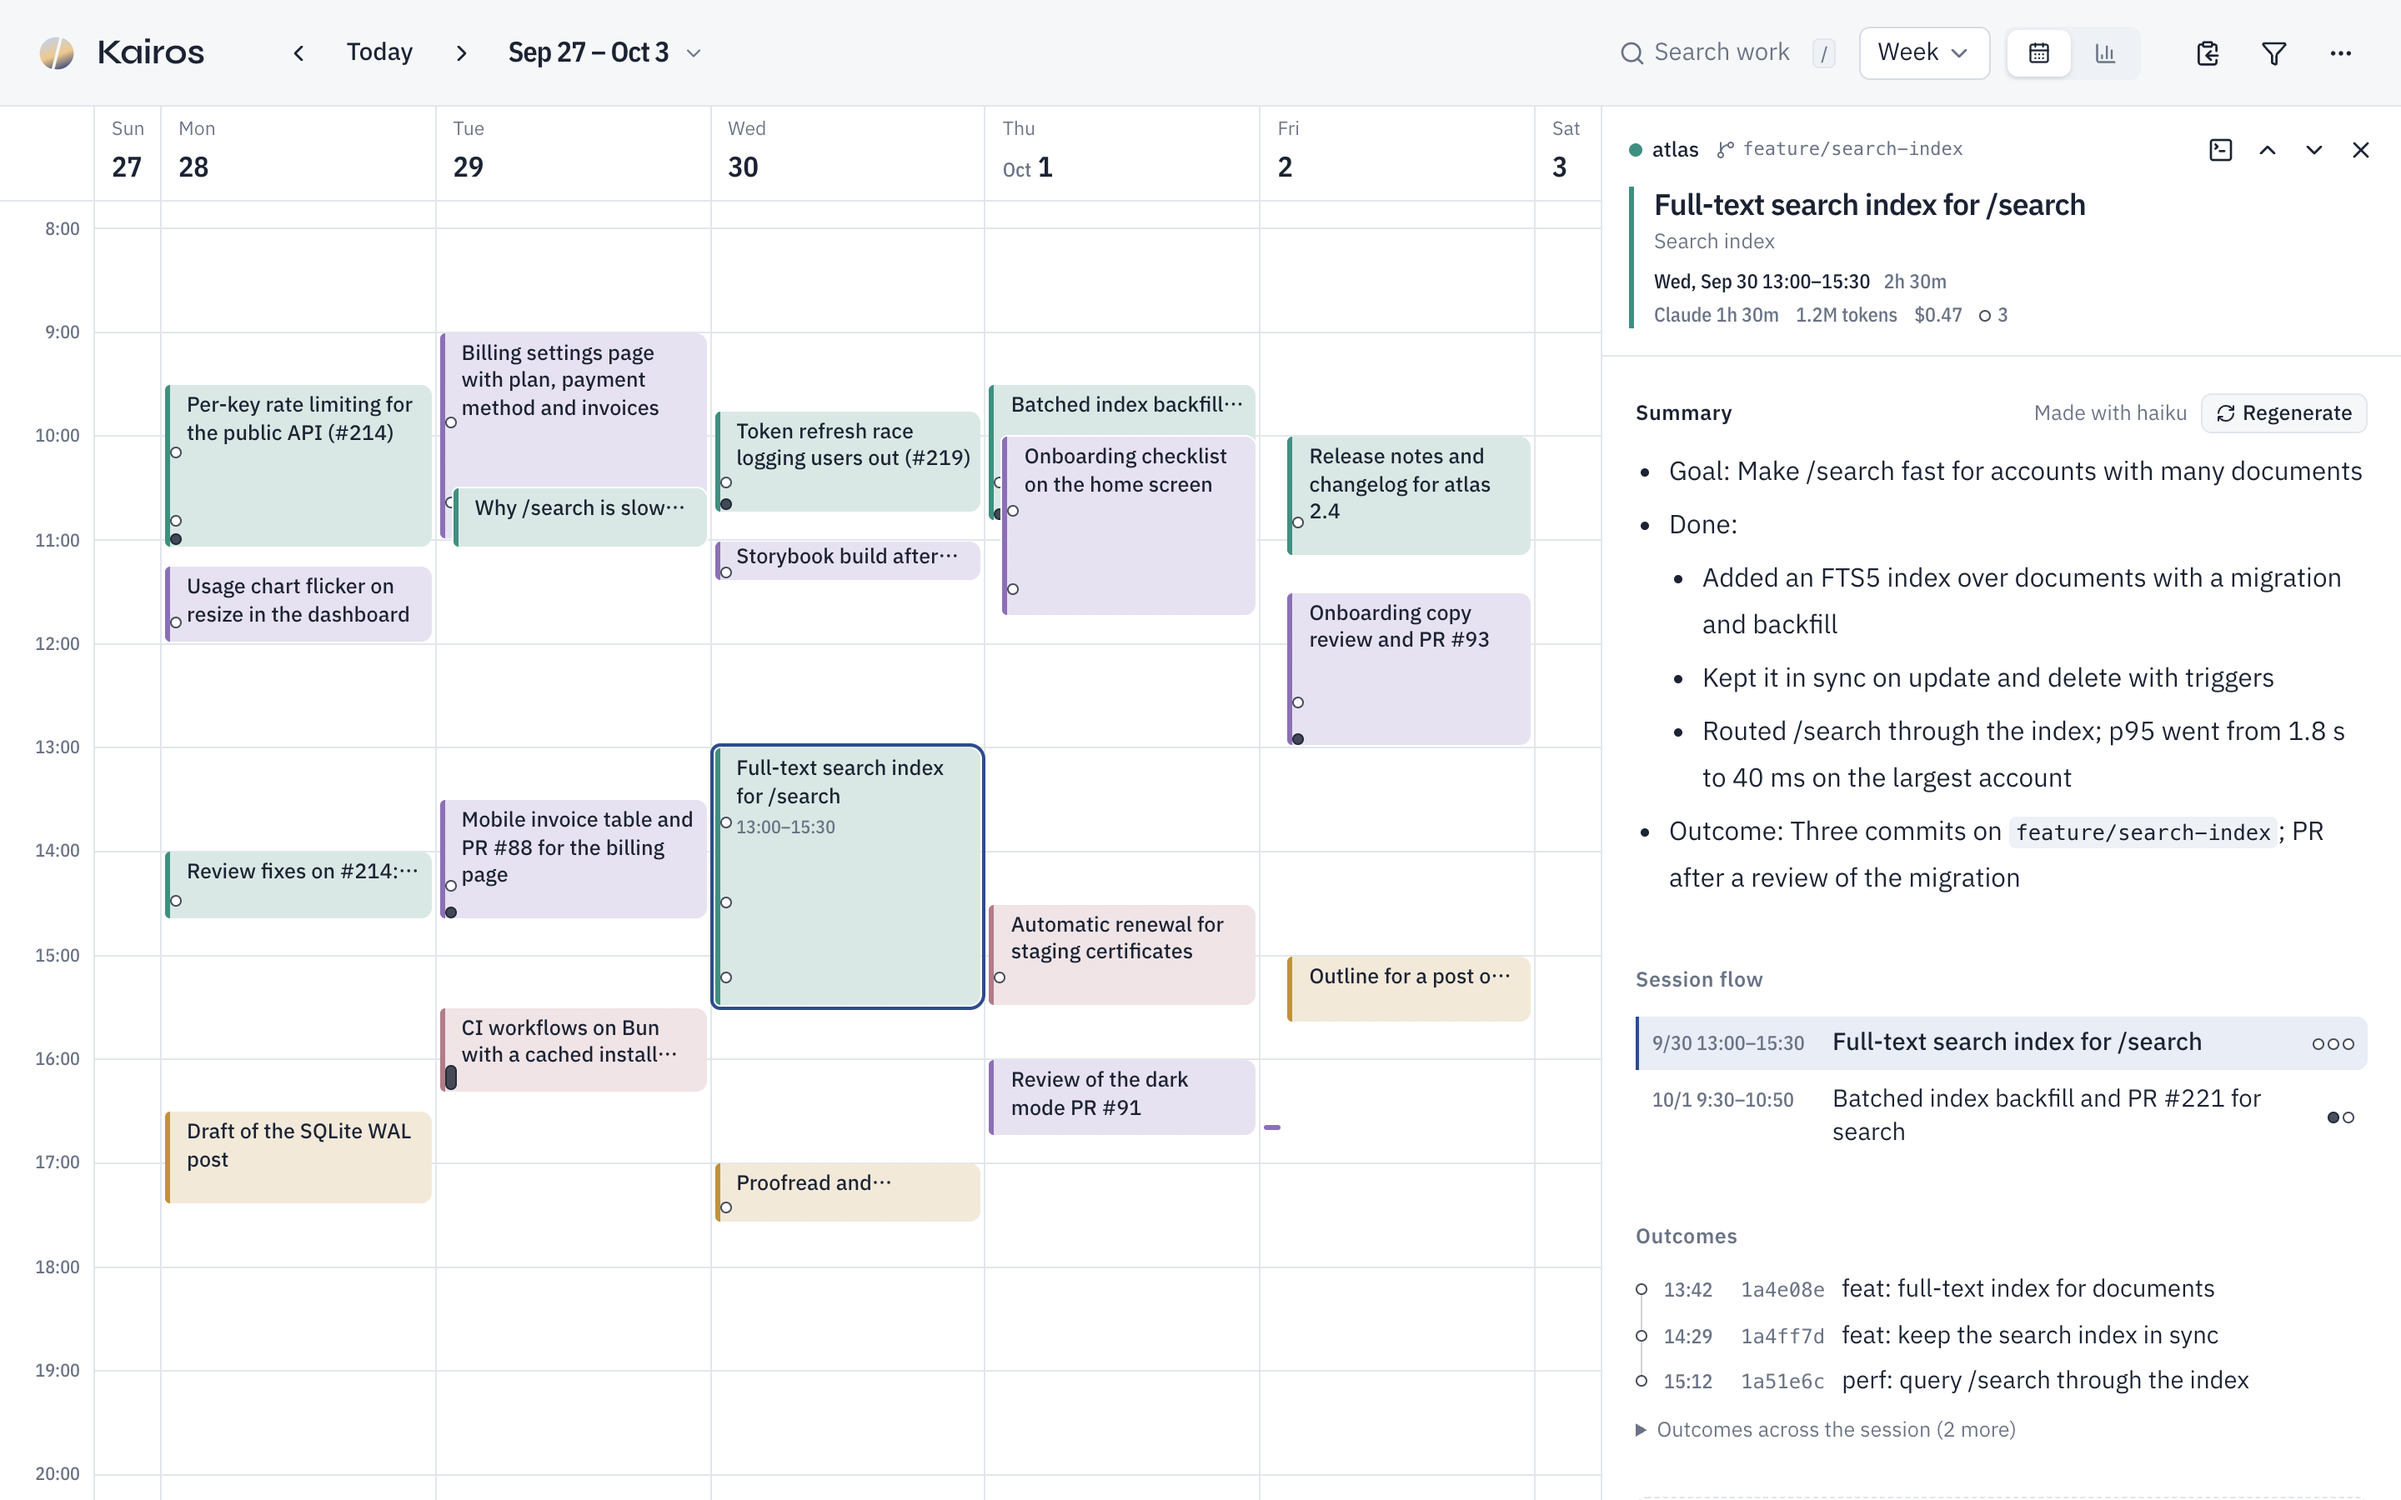
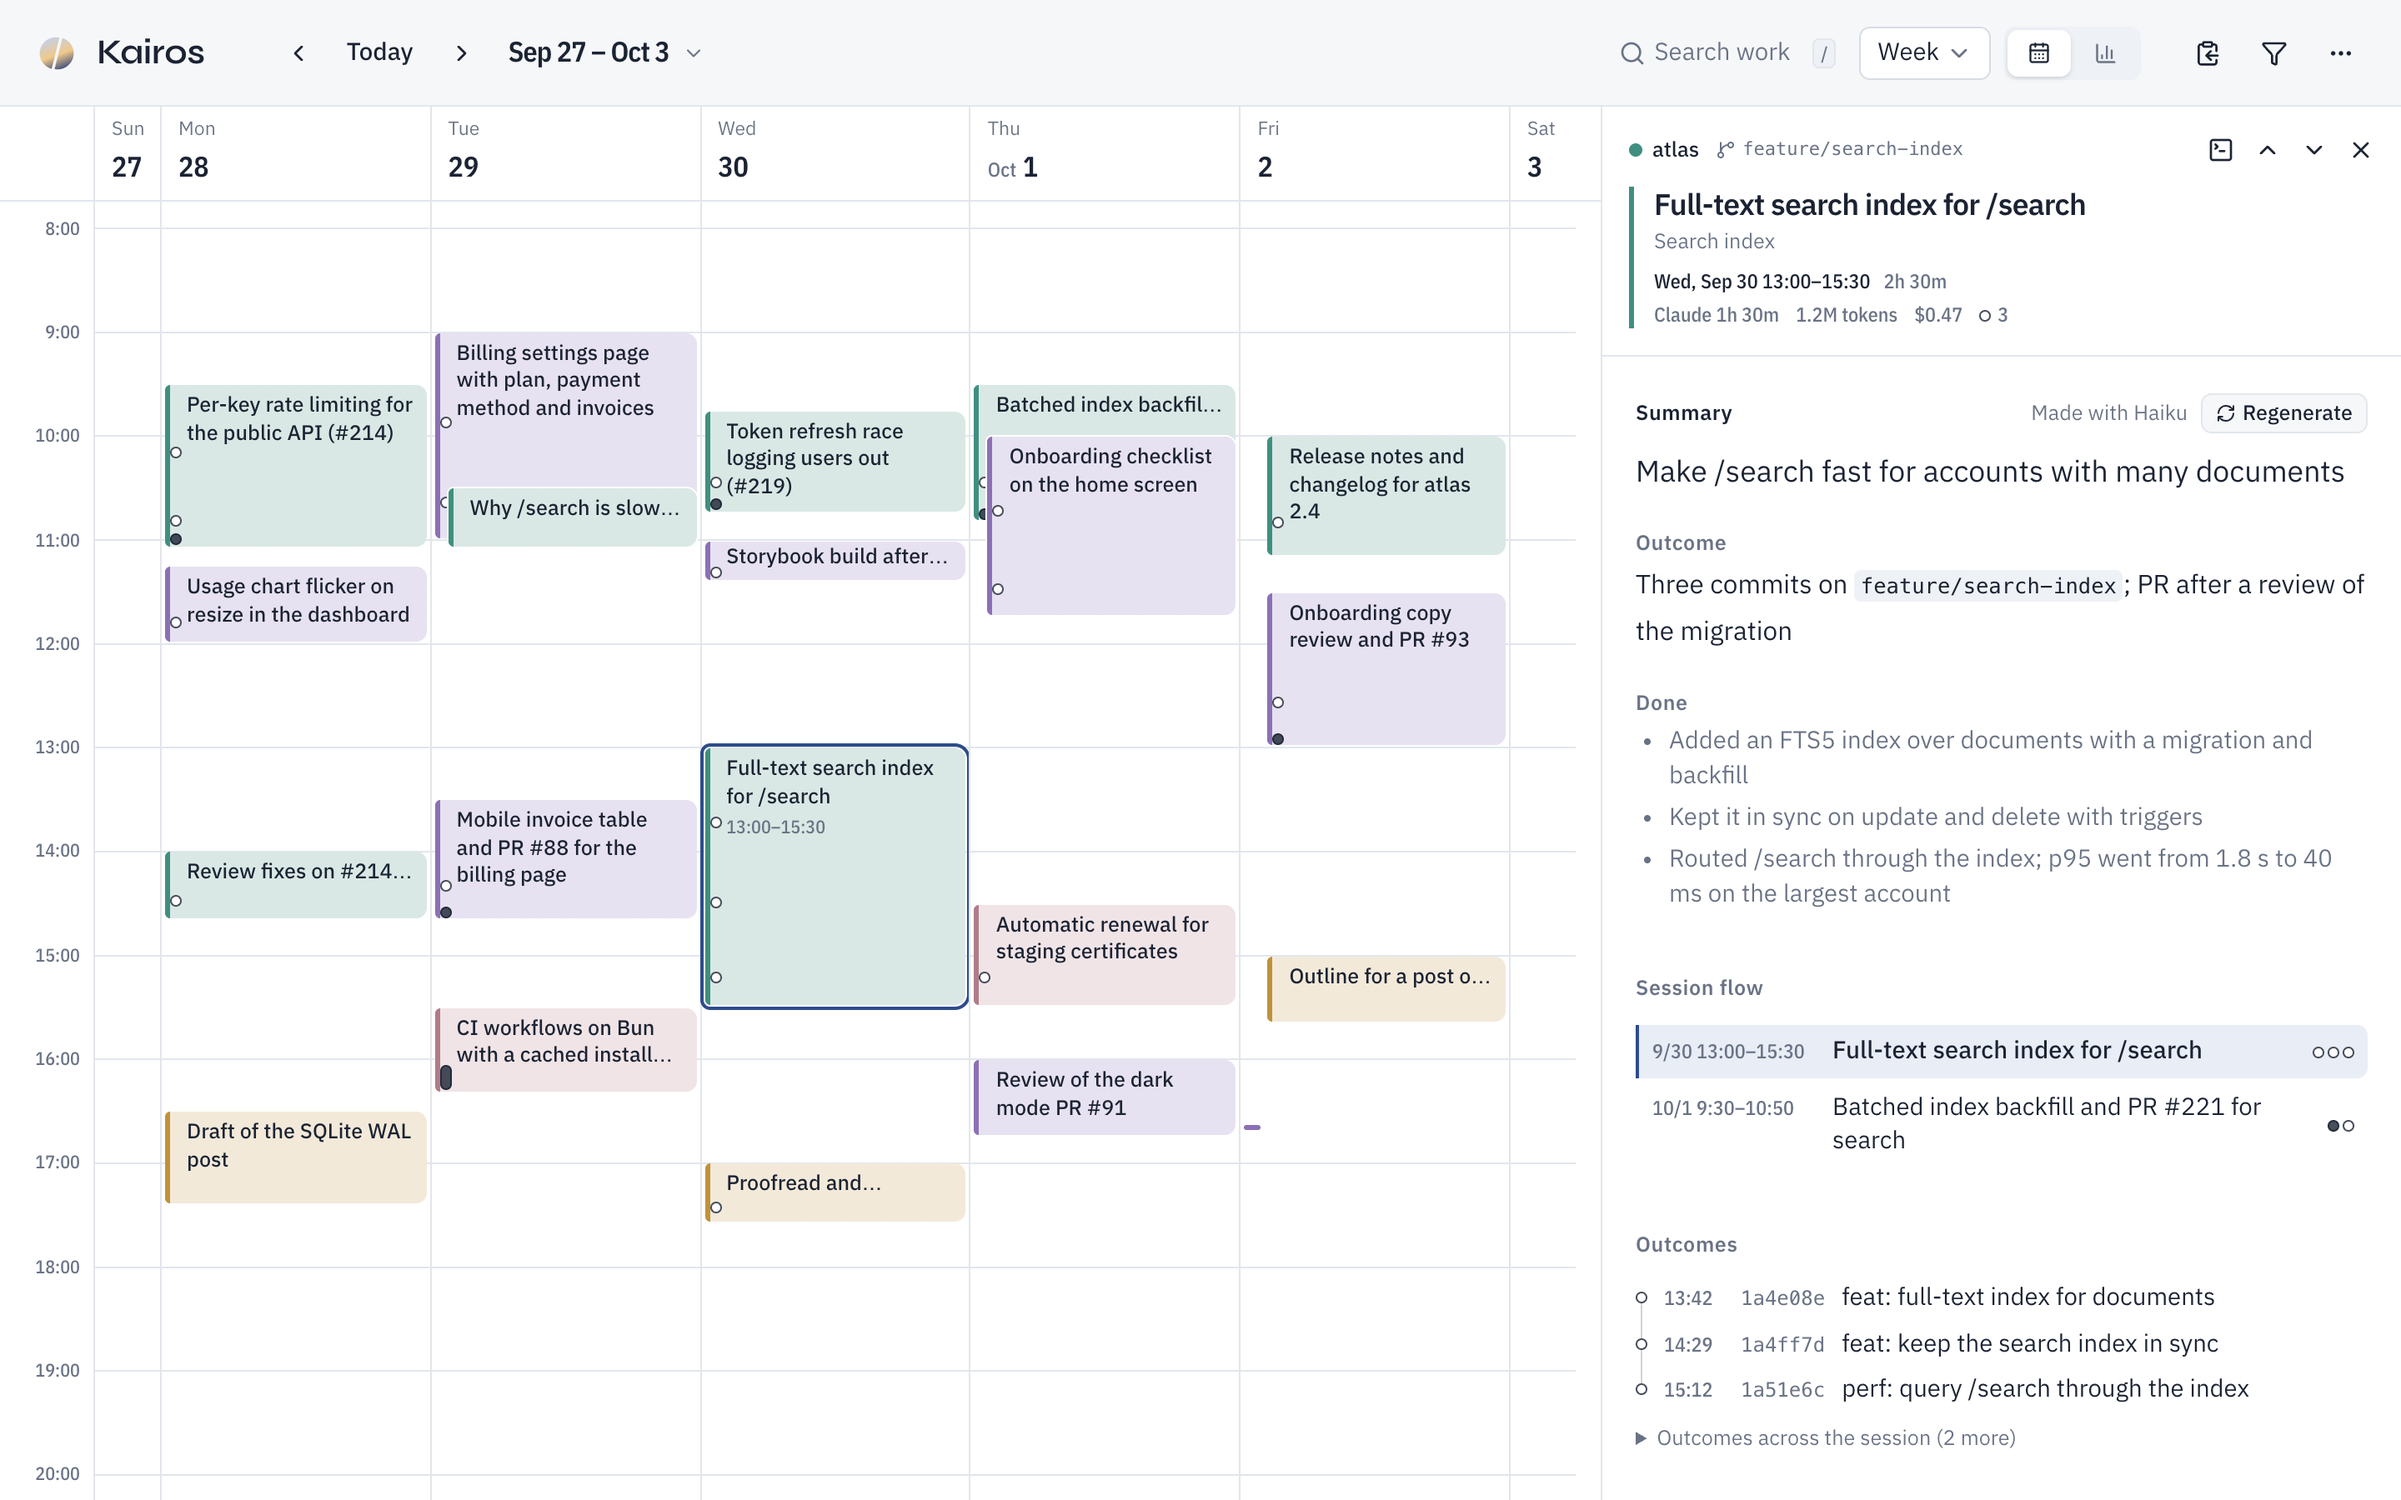
fix: one separator in the day figures, a baseline ellipsis and "Haiku"
- The day figures (the day view's line and the week view's wide columns)
  mixed plain gaps with " · " (inside "Commits 6 · PRs 1"); working time still
  leads by weight, the rest is joined by the locale's separator, which never
  starts a wrapped line
- IBM Plex Sans JP draws "…" as centered dots, the Japanese form; in the
  English UI the ellipsis alone comes from a Latin system face, through
  --font-sans so the font-sans utility follows too
- The drawer capitalizes a model alias ("Made with Haiku"), so it doesn't read
  as the poem

The totals' week-over-week changes are already one muted tone for every
figure, so they are left as they are.

Closes #12

diff --git a/src/web/src/components/calendar/DayHeader.tsx b/src/web/src/components/calendar/DayHeader.tsx
@@ -94,23 +94,40 @@ export function DayHeader({
 function DayFiguresLine({ figures }: { figures: DayFigures }) {
   const { busy, activity, commits, prs, trouble, usage } = figures;
   const f = formatMessages();
+  // One separator throughout: commitsPrs and usageText already join their parts with it
+  const details = [
+    <span key="blocks">{f.blocks(figures.counted)}</span>,
+    activity?.claudeMs ? (
+      <span key="claude">{drawerMessages().claudeShort(durationLabel(activity.claudeMs))}</span>
+    ) : null,
+    commits > 0 || prs > 0 ? <span key="outcomes">{f.commitsPrs(commits, prs)}</span> : null,
+    trouble > 0 ? (
+      <span key="trouble" className="text-warn">
+        {f.trouble(trouble)}
+      </span>
+    ) : null,
+    usage ? <span key="usage">{usageText(usage)}</span> : null,
+  ].filter((d) => d !== null);
   return (
     <div className="flex min-h-11 min-w-0 flex-wrap items-center gap-x-3 gap-y-0.5 border-l px-2.5 py-1.5 font-num text-muted-foreground text-xs">
       {figures.shown > 0 && (
         <>
-          {/* Working time leads; the rest is detail */}
+          {/* Working time leads, set apart by weight; the rest is detail */}
           <span className="font-semibold text-foreground text-sm">{durationLabel(busy)}</span>
-          <span>{f.blocks(figures.counted)}</span>
-          {activity?.claudeMs ? (
-            <span>{drawerMessages().claudeShort(durationLabel(activity.claudeMs))}</span>
-          ) : null}
-          {(commits > 0 || prs > 0) && <span>{f.commitsPrs(commits, prs)}</span>}
-          {trouble > 0 && <span className="text-warn">{f.trouble(trouble)}</span>}
-          {usage && <span>{usageText(usage)}</span>}
+          <span className="[&>span]:whitespace-nowrap">{interleave(details, f.separator)}</span>
         </>
       )}
     </div>
   );
+}
+
+/**
+ * The nodes with the separator between them. A line wraps only at a separator, and only after its
+ * dot: a non-breaking space before it keeps " · " from starting a line.
+ */
+function interleave(nodes: React.ReactElement[], separator: string): React.ReactNode[] {
+  const glued = separator.replace(/^ /, "\u00a0");
+  return nodes.flatMap((node, i) => (i === 0 ? [node] : [glued, node]));
 }
 
 /** Weekday above the day number, then the short figures line when the column has room. */
@@ -170,11 +187,11 @@ function DayStats({ figures }: { figures: DayFigures }) {
           {prs}
         </span>
       )}
-      {(commits > 0 || prs > 0) && (
-        <span className="@min-[20rem]:inline hidden">{f.commitsPrs(commits, prs)}</span>
-      )}
-      {/* Only when wide, add the block count. Cost stays in the tooltip */}
-      <span className="@min-[20rem]:inline hidden">{f.blocks(figures.counted)}</span>
+      {/* Only when wide, add the block count, joined like the day view's line. Cost stays in the tooltip */}
+      <span className="@min-[20rem]:inline hidden">
+        {commits > 0 || prs > 0 ? `${f.commitsPrs(commits, prs)}${f.separator}` : ""}
+        {f.blocks(figures.counted)}
+      </span>
     </span>
   );
 }

diff --git a/src/web/src/index.css b/src/web/src/index.css
@@ -11,9 +11,28 @@
 
 @custom-variant dark (&:is(.dark *));
 
+/* Plex Sans JP draws "…" as centered dots, the Japanese form. In the English UI, truncated text
+   takes the ellipsis alone from a Latin face, so it sits on the baseline. The weight range keeps
+   the browser from faking bold dots in medium and semibold text */
+@font-face {
+  font-family: "Latin Ellipsis";
+  src: local("Helvetica Neue"), local("Helvetica"), local("Arial");
+  unicode-range: U+2026;
+  font-weight: 100 900;
+}
+
+/* The UI face by language. --font-sans reads it, so the font-sans utility follows too */
+:root {
+  --font-ui: "IBM Plex Sans JP", "Hiragino Sans", "Noto Sans JP", system-ui, sans-serif;
+}
+:root:lang(en) {
+  --font-ui:
+    "Latin Ellipsis", "IBM Plex Sans JP", "Hiragino Sans", "Noto Sans JP", system-ui, sans-serif;
+}
+
 /* Direction "Indigo hours": indigo for selection and the current time, mineral pigments for projects; everything else stays quiet. Tokens and rationale are in DESIGN.md */
 @theme inline {
-  --font-sans: "IBM Plex Sans JP", "Hiragino Sans", "Noto Sans JP", system-ui, sans-serif;
+  --font-sans: var(--font-ui);
   --font-heading: var(--font-sans);
   --font-num: "IBM Plex Sans Condensed", "IBM Plex Sans JP", system-ui, sans-serif;
   --font-mark: "Syne", "IBM Plex Sans JP", system-ui, sans-serif;

diff --git a/src/web/src/components/drawer/SectionSummary.tsx b/src/web/src/components/drawer/SectionSummary.tsx
@@ -7,6 +7,7 @@ import { Button } from "@/components/ui/button.tsx";
 import { useRequestSummary } from "@/hooks/queries.ts";
 import { drawerMessages } from "@/i18n/messages/drawer.ts";
 import { outcomeNode, splitOutcomes, summaryFailureKind } from "@/lib/drawer.ts";
+import { modelLabel } from "@/lib/format.ts";
 import { issueBaseUrl } from "@/lib/issueLinks.ts";
 import { cn } from "@/lib/utils.ts";
 import { Markdown } from "../Markdown.tsx";
@@ -42,7 +43,9 @@ export function SectionSummary({
           <>
             {/* Beside the button that would rewrite it, rather than on a line of its own */}
             {section.model && (
-              <span className="text-muted-foreground text-xs">{t.madeWith(section.model)}</span>
+              <span className="text-muted-foreground text-xs">
+                {t.madeWith(modelLabel(section.model))}
+              </span>
             )}
             {button(t.regenerate, RefreshCw)}
           </>

diff --git a/src/web/src/lib/format.ts b/src/web/src/lib/format.ts
@@ -25,8 +25,15 @@ export function costLabel(usd: number): string {
   return `$${Math.round(usd).toLocaleString("en-US")}`;
 }
 
-/** `claude-opus-5-5` → `Opus 5.5`, `claude-haiku-4-5-20251001` → `Haiku 4.5`. Unknown shapes pass through. */
+/** Model aliases `--model` accepts. Only these are capitalized; other names pass through. */
+const MODEL_ALIASES = new Set(["haiku", "sonnet", "opus", "fable"]);
+
+/**
+ * `claude-opus-5-5` → `Opus 5.5`, `claude-haiku-4-5-20251001` → `Haiku 4.5`, and an alias such as
+ * `haiku` → `Haiku` (lowercase, it reads as the poem). Unknown shapes pass through.
+ */
 export function modelLabel(model: string): string {
+  if (MODEL_ALIASES.has(model)) return `${model[0]?.toUpperCase()}${model.slice(1)}`;
   const m = /^claude-([a-z]+)-(\d+(?:-\d+)?)(?:-\d{8})?$/.exec(model);
   if (!m?.[1] || !m[2]) return model;
   return `${m[1][0]?.toUpperCase()}${m[1].slice(1)} ${m[2].replace("-", ".")}`;

diff --git a/tests/web/format.test.ts b/tests/web/format.test.ts
@@ -49,6 +49,11 @@ describe("modelLabel", () => {
     expect(modelLabel("claude-haiku-4-5-20251001")).toBe("Haiku 4.5");
     expect(modelLabel("gpt-x")).toBe("gpt-x");
   });
+
+  test("capitalizes a bare alias", () => {
+    expect(modelLabel("haiku")).toBe("Haiku");
+    expect(modelLabel("default")).toBe("default");
+  });
 });
 
 describe("cacheRate and sumUsage", () => {

diff --git a/DESIGN.md b/DESIGN.md
@@ -228,7 +228,8 @@ A work block's fill is the project color mixed into `block-base` in `oklch`:
 ## Typography
 
 - **IBM Plex Sans JP** (400 / 500 / 600) for body and UI. It covers both the English and the
-  Japanese UI. `palt` is on for the body so Japanese punctuation sits tight
+  Japanese UI. `palt` is on for the body so Japanese punctuation sits tight. In the English UI only
+  the ellipsis "…" comes from a Latin system face, since Plex Sans JP centers it (the Japanese form)
 - **IBM Plex Sans Condensed** (500 / 600) with tabular figures for times, dates and numbers — use
   the `font-num` utility. Condensed figures fit narrow day columns and don't jitter as they change
 - **Syne SemiBold** only for the "Kairos" wordmark in the header (Latin subset). A face used nowhere
